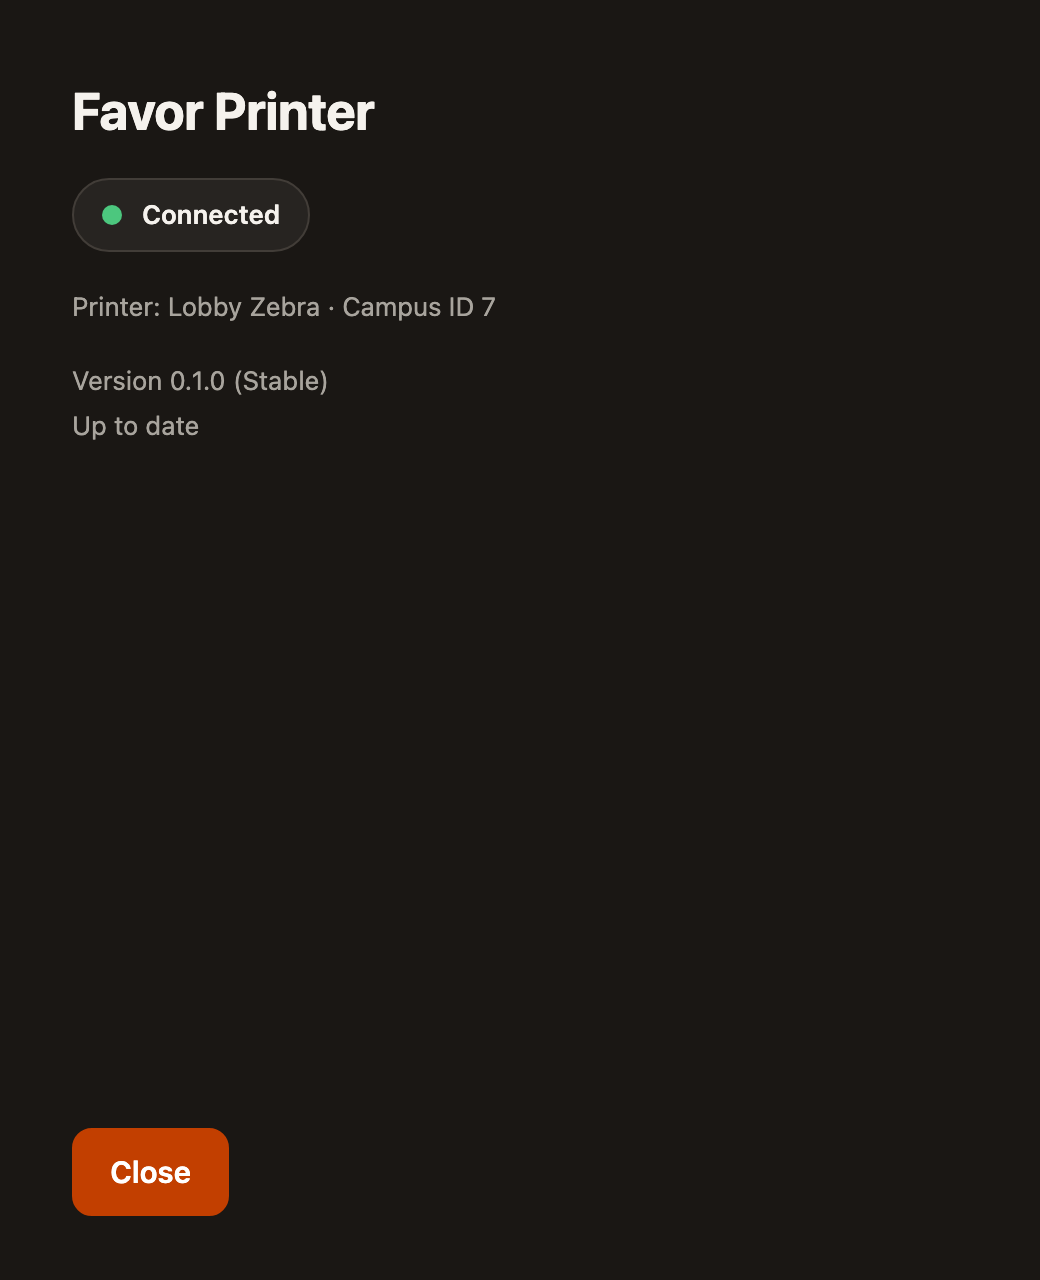
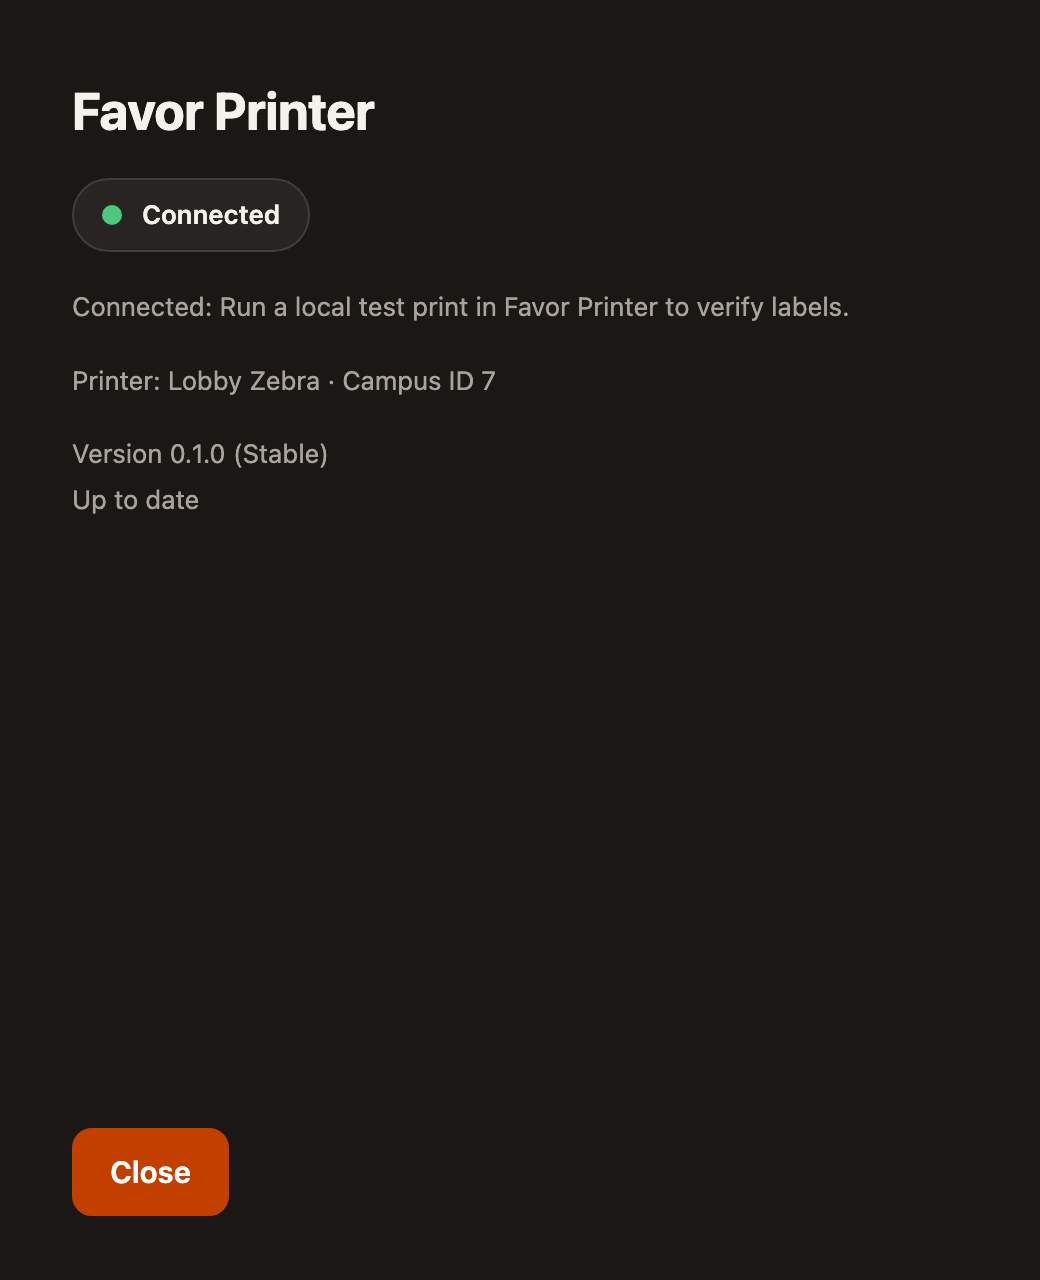
Cover connected status and last-seen guard

Changed region(s): [[0.0615, 0.2812, 0.4615, 0.4062], [0.0615, 0.2188, 0.8, 0.25]]

diff --git a/app/src/renderer/preview.test.ts b/app/src/renderer/preview.test.ts
@@ -174,16 +174,13 @@ describe("status / about screen rendering", () => {
   });
 
   it("renders fiveState and recoveryAction hint on status screen", () => {
+    const snapshot = fixtureFor("status").snapshot;
     const rendered = renderScreen("status", {
-      snapshot: {
-        ...fixtureFor("status").snapshot,
-        fiveState: "Connected",
-        recoveryAction: "Run a local test print in Favor Printer to verify labels.",
-      },
+      snapshot,
       local: INITIAL_LOCAL,
       actions: {} as never,
     }) as unknown as FakeElement;
-    expect(text(rendered)).toContain("Connected: Run a local test print in Favor Printer to verify labels.");
+    expect(text(rendered)).toContain(`${snapshot.fiveState}: ${snapshot.recoveryAction}`);
   });
 
   it.each(["unplugged", "waiting", "in-use-elsewhere"] as const)(
@@ -206,7 +203,11 @@ describe("status / about screen rendering", () => {
     const rendered = renderScreen("status", { snapshot, local: INITIAL_LOCAL, actions: {} as never }) as unknown as FakeElement;
     expect(text(rendered)).toContain(`Not seen since ${expectedTime}`);
 
-    const connected = renderScreen("status", { snapshot: fixtureFor("status").snapshot, local: INITIAL_LOCAL, actions: {} as never }) as unknown as FakeElement;
+    const connectedSnapshot = {
+      ...fixtureFor("status").snapshot,
+      printerPresence: snapshot.printerPresence,
+    };
+    const connected = renderScreen("status", { snapshot: connectedSnapshot, local: INITIAL_LOCAL, actions: {} as never }) as unknown as FakeElement;
     expect(text(connected).some((line) => line.startsWith("Not seen since "))).toBe(false);
   });
 

diff --git a/app/src/renderer/fixtures.ts b/app/src/renderer/fixtures.ts
@@ -156,6 +156,8 @@ export function fixtureFor(requested: string | null): Fixture {
       return {
         snapshot: withStep(null, {
           ...enrolled,
+          fiveState: "Connected",
+          recoveryAction: "Run a local test print in Favor Printer to verify labels.",
           update: { kind: "idle" },
         }),
       };
